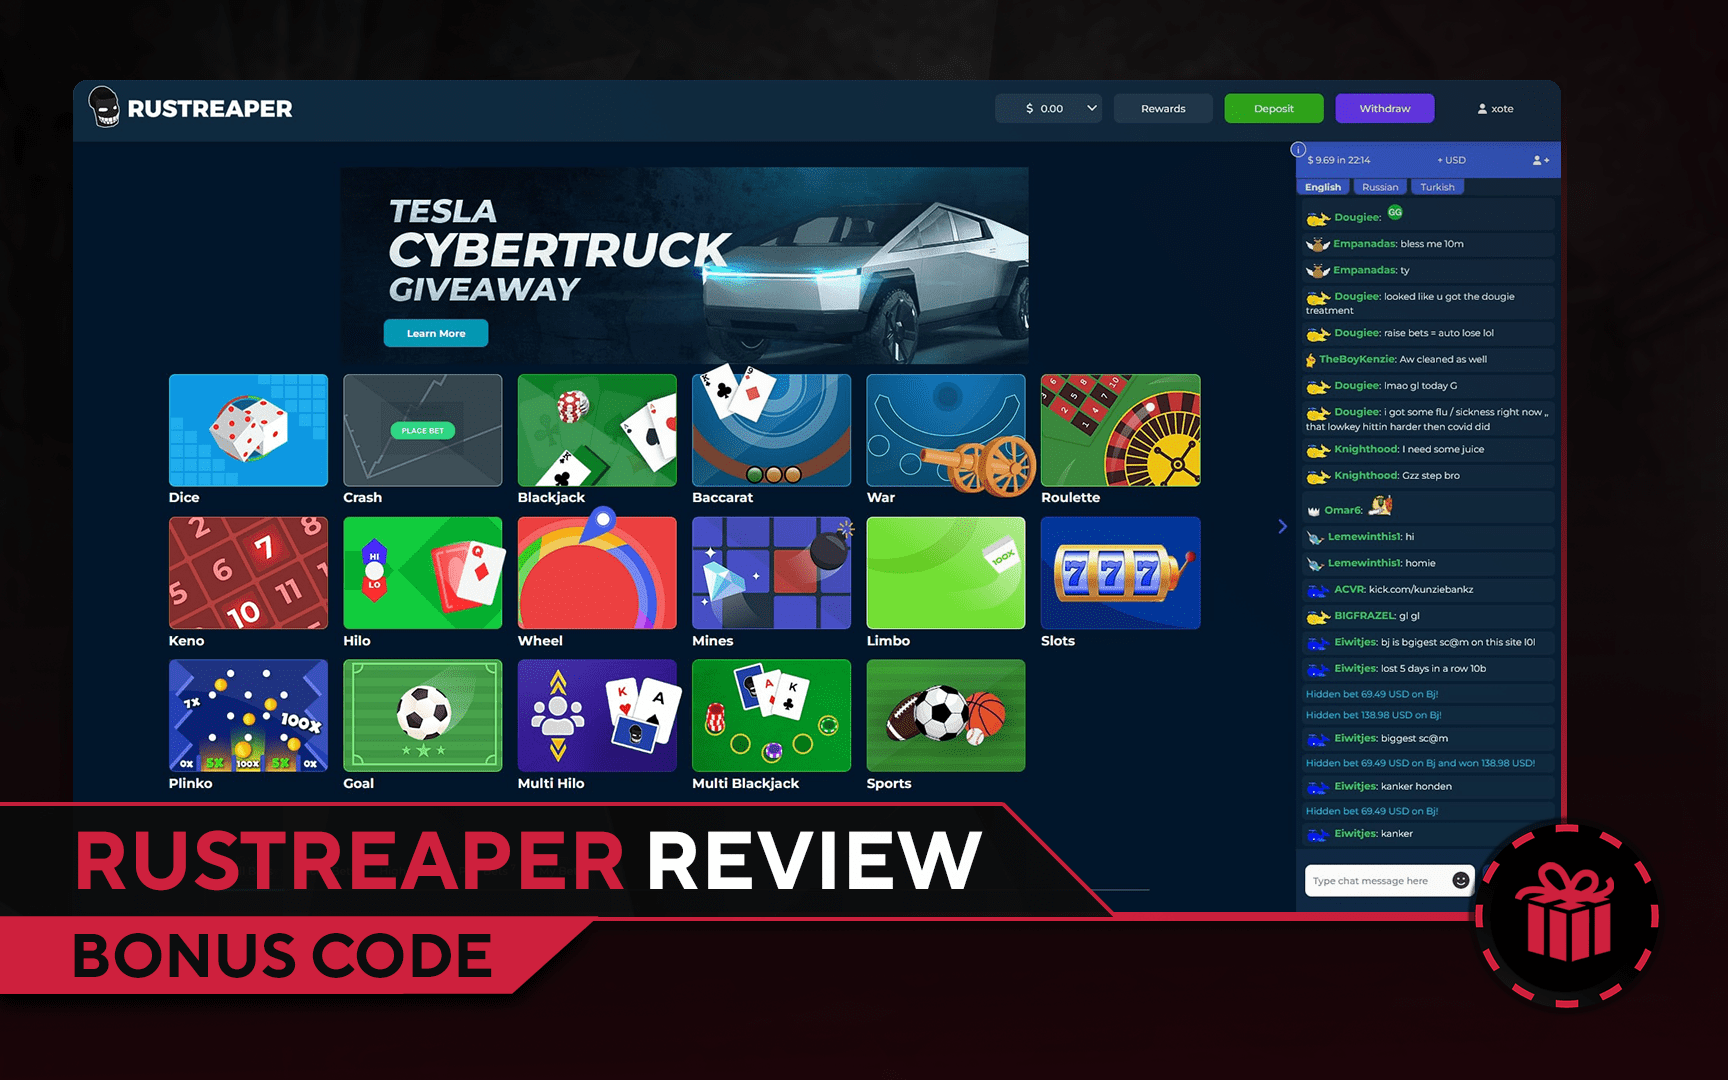
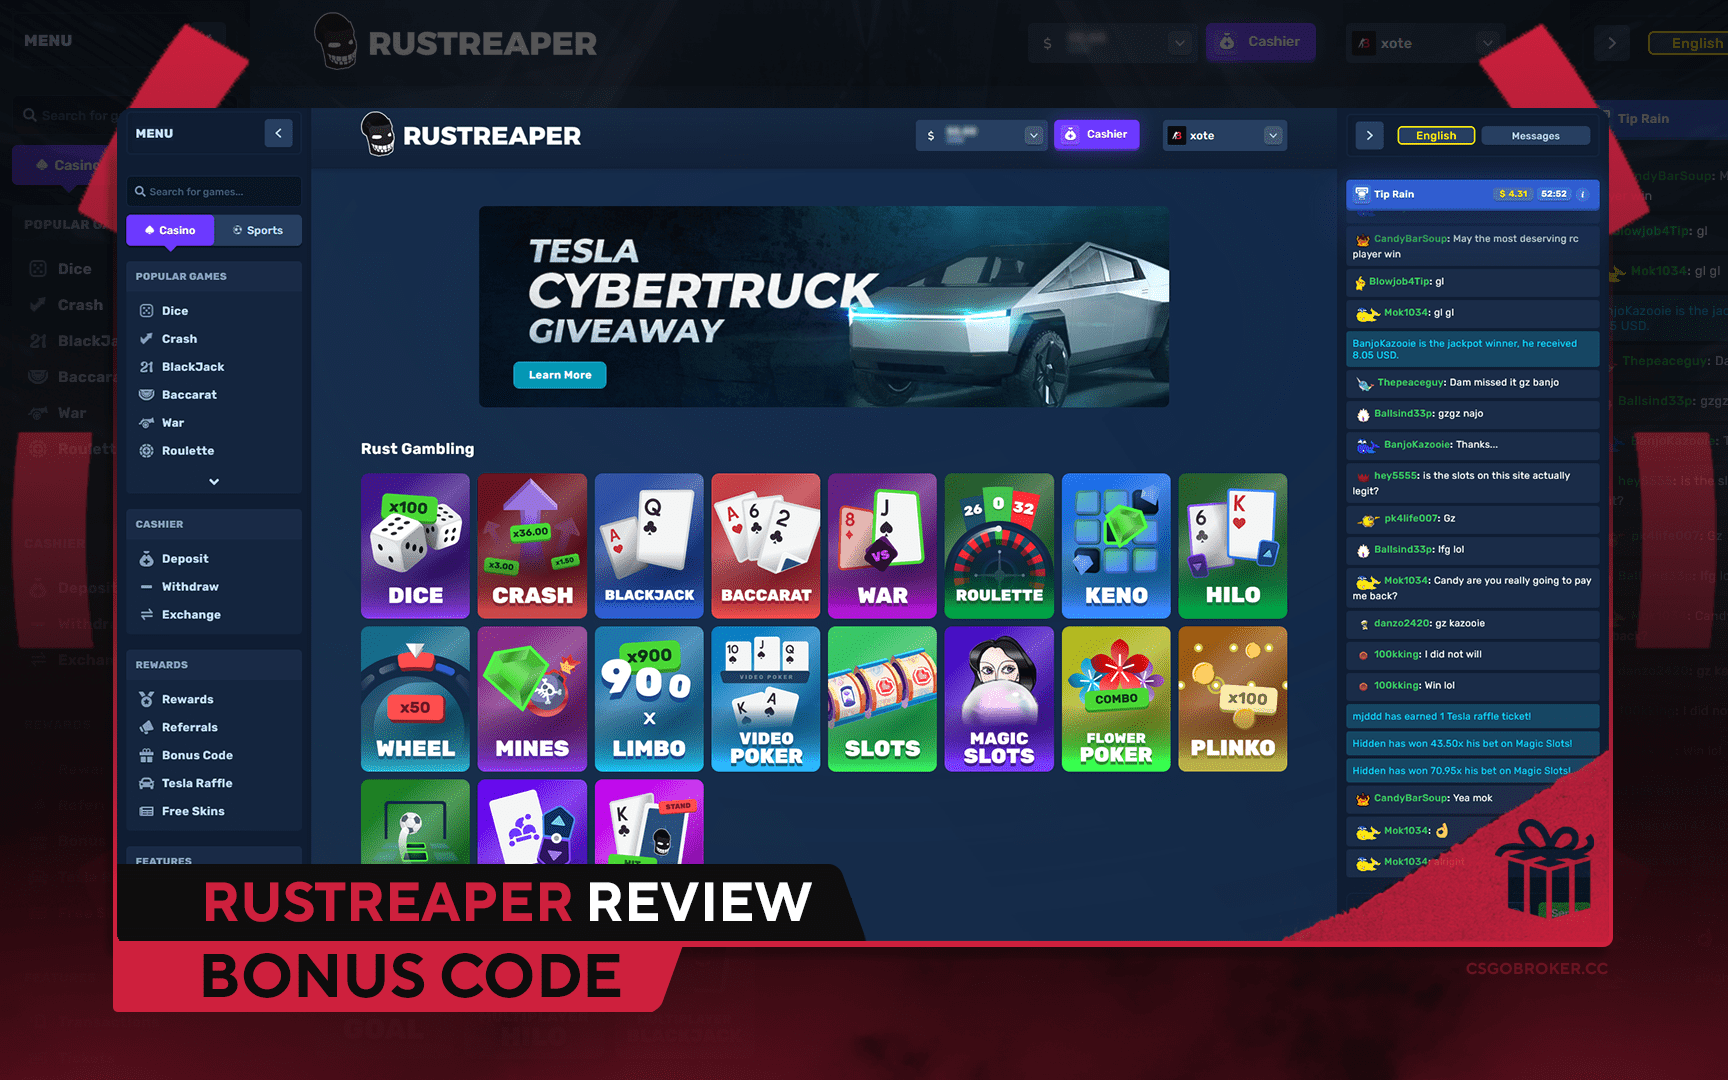
rustreaper upd

diff --git a/ru/reviews/rustreaper.html b/ru/reviews/rustreaper.html
@@ -16,13 +16,13 @@
     <link id="theme-style" rel="stylesheet" href="" disabled>
     <link rel="stylesheet" href="https://cdn.jsdelivr.net/npm/bootstrap-icons@1.11.3/font/bootstrap-icons.min.css">
     <link rel="canonical" href="https://csgobroker.cc/ru/reviews/rustreaper">
-    <meta name="description" content="Объективный обзор RustReaper, охватывающий все игровые режимы и уникальные функции. Давайте выясним, надёжен ли RustReaper.">
+    <meta name="description" content="Ознакомьтесь с нашим обзором RustReaper, где мы рассмотрим все плюсы и минусы этой крипто платформы, включая честность игр и доступность различных режимов.">
     <meta property="robots" content="follow, index, max-snippet:-1, max-video-preview:-1, max-image-preview:large">
     <meta property="og:url" content="https://csgobroker.cc/ru/reviews/rustreaper">
     <meta property="og:type" content="article">
     <meta property="og:title" content="RustReaper Обзор в 2024 - Промокод - Плюсы и Минусы">
     <meta property="og:locale" content="ru">
-    <meta property="og:description" content="Объективный обзор RustReaper, охватывающий все игровые режимы и уникальные функции. Давайте выясним, надёжен ли RustReaper.">
+    <meta property="og:description" content="Ознакомьтесь с нашим обзором RustReaper, где мы рассмотрим все плюсы и минусы этой крипто платформы, включая честность игр и доступность различных режимов.">
     <meta property="og:site_name" content="CSGOBROKER">
     <meta property="og:image" content="https://csgobroker.cc/img/banners/rustreaper-review.png">
     <meta property="og:image:secure_url" content="https://csgobroker.cc/img/banners/rustreaper-review.png">
@@ -37,7 +37,7 @@
     <meta name="twitter:card" content="summary_large_image">
     <meta name="twitter:image" content="https://csgobroker.cc/img/banners/rustreaper-review.png">
     <meta name="twitter:title" content="RustReaper Обзор в 2024 - Промокод - Плюсы и Минусы">
-    <meta name="twitter:description" content="Объективный обзор RustReaper, охватывающий все игровые режимы и уникальные функции. Давайте выясним, надёжен ли RustReaper.">
+    <meta name="twitter:description" content="Ознакомьтесь с нашим обзором RustReaper, где мы рассмотрим все плюсы и минусы этой крипто платформы, включая честность игр и доступность различных режимов.">
     <link rel="stylesheet" href="https://cdnjs.cloudflare.com/ajax/libs/slick-carousel/1.8.1/slick.min.css">
     <link rel="stylesheet" href="https://cdnjs.cloudflare.com/ajax/libs/slick-carousel/1.8.1/slick-theme.min.css">
     <link rel="alternate" hreflang="en" href="https://csgobroker.cc/reviews/rustreaper">
@@ -152,8 +152,8 @@
                 <ol>
                 <li>Перейдите на <a target="_blank" href="https://rustreaper.com?ref=broker">RustReaper</a> используя нашу ссылку</li>
                 <li>Залогиньтесь через Steam </li>
-                <li>Нажмите в Верхнем-Правом углу на <strong>Rewards</strong></li>
-                <li>Слева Введите код: <code id="site-code"></code><button class="copy site-promo-copy" aria-label="Copy Code"></button></li>
+                <li>Нажмите в Верхнем-Правом углу на ваш <strong>Никнейм</strong></li>
+                <li>Затем нажмите на <strong>Bonus code</strong> и Введите код: <code id="site-code"></code><button class="copy site-promo-copy" aria-label="Copy Code"></button></li>
                 <li>Готово !</li>
                 </ol>
             </div>
@@ -165,13 +165,13 @@
                     </div>
                 </div>
                 <div class="screens">
-                    <div class="slide bg1"><img draggable="false" loading="lazy" src="/img/screens/rustreaper_1.jpg" alt="RustReaper ScreenShot 1"></div>
-                    <div class="slide bg2"><img draggable="false" loading="lazy" src="/img/screens/rustreaper_2.jpg" alt="RustReaper ScreenShot 2"></div>
-                    <div class="slide bg3"><img draggable="false" loading="lazy" src="/img/screens/rustreaper_3.jpg" alt="RustReaper ScreenShot 3"></div>
-                    <div class="slide bg4"><img draggable="false" loading="lazy" src="/img/screens/rustreaper_4.jpg" alt="RustReaper ScreenShot 4"></div>
-                    <div class="slide bg5"><img draggable="false" loading="lazy" src="/img/screens/rustreaper_5.jpg" alt="RustReaper ScreenShot 5"></div>
-                    <div class="slide bg6"><img draggable="false" loading="lazy" src="/img/screens/rustreaper_6.jpg" alt="RustReaper ScreenShot 6"></div>
-                    <div class="slide bg7"><img draggable="false" loading="lazy" src="/img/screens/rustreaper_7.jpg" alt="RustReaper ScreenShot 7"></div>
+                    <div class="slide bg1"><img draggable="false" loading="lazy" src="/img/screens/rustreaper_1.png" alt="RustReaper Main Page ScreenShot"></div>
+                    <div class="slide bg2"><img draggable="false" loading="lazy" src="/img/screens/rustreaper_2.png" alt="RustReaper Sports Betting ScreenShot"></div>
+                    <div class="slide bg3"><img draggable="false" loading="lazy" src="/img/screens/rustreaper_3.png" alt="RustReaper Slots List ScreenShot"></div>
+                    <div class="slide bg4"><img draggable="false" loading="lazy" src="/img/screens/rustreaper_4.png" alt="RustReaper Roulette ScreenShot"></div>
+                    <div class="slide bg5"><img draggable="false" loading="lazy" src="/img/screens/rustreaper_5.png" alt="RustReaper Plinko ScreenShot"></div>
+                    <div class="slide bg6"><img draggable="false" loading="lazy" src="/img/screens/rustreaper_6.png" alt="RustReaper Crash ScreenShot"></div>
+                    <div class="slide bg7"><img draggable="false" loading="lazy" src="/img/screens/rustreaper_7.png" alt="RustReaper Mines ScreenShot"></div>
                 </div>
             </div>
             <div class="sitealternates">

diff --git a/tr/reviews/rustreaper.html b/tr/reviews/rustreaper.html
@@ -16,13 +16,13 @@
     <link id="theme-style" rel="stylesheet" href="" disabled>
     <link rel="stylesheet" href="https://cdn.jsdelivr.net/npm/bootstrap-icons@1.11.3/font/bootstrap-icons.min.css">
     <link rel="canonical" href="https://csgobroker.cc/tr/reviews/rustreaper">
-    <meta name="description" content="RustReaper'ın tüm oyun modlarını ve benzersiz özelliklerini kapsayan tarafsız bir inceleme. RustReaper'ın güvenilir olup olmadığını öğrenelim.">
+    <meta name="description" content="RustReaper incelememize göz atın, bu kripto platformunun tüm artılarını ve eksilerini, oyunların dürüstlüğü ve çeşitli modların kullanılabilirliği dahil olmak üzere ele alıyoruz.">
     <meta property="robots" content="follow, index, max-snippet:-1, max-video-preview:-1, max-image-preview:large">
     <meta property="og:url" content="https://csgobroker.cc/tr/reviews/rustreaper">
     <meta property="og:type" content="article">
     <meta property="og:title" content="RustReaper 2024 İncelemesi - Artılar ve Eksiler - Ücretsiz Bonus Kodu">
     <meta property="og:locale" content="tr">
-    <meta property="og:description" content="RustReaper'ın tüm oyun modlarını ve benzersiz özelliklerini kapsayan tarafsız bir inceleme. RustReaper'ın güvenilir olup olmadığını öğrenelim.">
+    <meta property="og:description" content="RustReaper incelememize göz atın, bu kripto platformunun tüm artılarını ve eksilerini, oyunların dürüstlüğü ve çeşitli modların kullanılabilirliği dahil olmak üzere ele alıyoruz.">
     <meta property="og:site_name" content="CSGOBROKER">
     <meta property="og:image" content="https://csgobroker.cc/img/banners/rustreaper-review.png">
     <meta property="og:image:secure_url" content="https://csgobroker.cc/img/banners/rustreaper-review.png">
@@ -37,7 +37,7 @@
     <meta name="twitter:card" content="summary_large_image">
     <meta name="twitter:image" content="https://csgobroker.cc/img/banners/rustreaper-review.png">
     <meta name="twitter:title" content="RustReaper 2024 İncelemesi - Artılar ve Eksiler - Ücretsiz Bonus Kodu">
-    <meta name="twitter:description" content="RustReaper'ın tüm oyun modlarını ve benzersiz özelliklerini kapsayan tarafsız bir inceleme. RustReaper'ın güvenilir olup olmadığını öğrenelim.">
+    <meta name="twitter:description" content="RustReaper incelememize göz atın, bu kripto platformunun tüm artılarını ve eksilerini, oyunların dürüstlüğü ve çeşitli modların kullanılabilirliği dahil olmak üzere ele alıyoruz.">
     <link rel="stylesheet" href="https://cdnjs.cloudflare.com/ajax/libs/slick-carousel/1.8.1/slick.min.css">
     <link rel="stylesheet" href="https://cdnjs.cloudflare.com/ajax/libs/slick-carousel/1.8.1/slick-theme.min.css">
     <link rel="alternate" hreflang="en" href="https://csgobroker.cc/reviews/rustreaper">
@@ -149,8 +149,8 @@
                 <ol>
                 <li>Sağlanan bağlantıyı kullanarak <a target="_blank" href="https://rustreaper.com?ref=broker">RustReaper</a>'e gidin</li>
                 <li>Steam ile Kayıt Ol</li>
-                <li>Sağ üst köşedeki <strong>Rewards</strong> üzerine tıklayın</li>
-                <li>Sol taraftaki Kodu Girin: <code id="site-code"></code><button class="copy site-promo-copy" aria-label="Copy Code"></button></li>
+                <li>Sağ üst köşedeki <strong>Kullanıcı Adınıza</strong> tıklayın</li>
+                <li>Ardından <strong>Bonus kodu</strong> tıklayın ve kodu girin: <code id="site-code"></code><button class="copy site-promo-copy" aria-label="Copy Code"></button></li>                
                 <li>Keyfini Çıkar!</li>
                 </ol>
             </div>
@@ -162,13 +162,13 @@
                     </div>
                 </div>
                 <div class="screens">
-                    <div class="slide bg1"><img draggable="false" loading="lazy" src="/img/screens/rustreaper_1.jpg" alt="RustReaper ScreenShot 1"></div>
-                    <div class="slide bg2"><img draggable="false" loading="lazy" src="/img/screens/rustreaper_2.jpg" alt="RustReaper ScreenShot 2"></div>
-                    <div class="slide bg3"><img draggable="false" loading="lazy" src="/img/screens/rustreaper_3.jpg" alt="RustReaper ScreenShot 3"></div>
-                    <div class="slide bg4"><img draggable="false" loading="lazy" src="/img/screens/rustreaper_4.jpg" alt="RustReaper ScreenShot 4"></div>
-                    <div class="slide bg5"><img draggable="false" loading="lazy" src="/img/screens/rustreaper_5.jpg" alt="RustReaper ScreenShot 5"></div>
-                    <div class="slide bg6"><img draggable="false" loading="lazy" src="/img/screens/rustreaper_6.jpg" alt="RustReaper ScreenShot 6"></div>
-                    <div class="slide bg7"><img draggable="false" loading="lazy" src="/img/screens/rustreaper_7.jpg" alt="RustReaper ScreenShot 7"></div>
+                    <div class="slide bg1"><img draggable="false" loading="lazy" src="/img/screens/rustreaper_1.png" alt="RustReaper Main Page ScreenShot"></div>
+                    <div class="slide bg2"><img draggable="false" loading="lazy" src="/img/screens/rustreaper_2.png" alt="RustReaper Sports Betting ScreenShot"></div>
+                    <div class="slide bg3"><img draggable="false" loading="lazy" src="/img/screens/rustreaper_3.png" alt="RustReaper Slots List ScreenShot"></div>
+                    <div class="slide bg4"><img draggable="false" loading="lazy" src="/img/screens/rustreaper_4.png" alt="RustReaper Roulette ScreenShot"></div>
+                    <div class="slide bg5"><img draggable="false" loading="lazy" src="/img/screens/rustreaper_5.png" alt="RustReaper Plinko ScreenShot"></div>
+                    <div class="slide bg6"><img draggable="false" loading="lazy" src="/img/screens/rustreaper_6.png" alt="RustReaper Crash ScreenShot"></div>
+                    <div class="slide bg7"><img draggable="false" loading="lazy" src="/img/screens/rustreaper_7.png" alt="RustReaper Mines ScreenShot"></div>
                 </div>
             </div>
             <div class="sitealternates">

diff --git a/reviews/rustreaper.html b/reviews/rustreaper.html
@@ -16,13 +16,13 @@
     <link id="theme-style" rel="stylesheet" href="" disabled>
     <link rel="stylesheet" href="https://cdn.jsdelivr.net/npm/bootstrap-icons@1.11.3/font/bootstrap-icons.min.css">
     <link rel="canonical" href="https://csgobroker.cc/reviews/rustreaper">
-    <meta name="description" content="An objective review of RustReaper, covering all game modes and unique features. Let's find out if RustReaper is reliable.">
+    <meta name="description" content="Check out our review of RustReaper, where we discuss all the pros and cons of this crypto platform, including the fairness of games and the availability of various modes.">
     <meta property="robots" content="follow, index, max-snippet:-1, max-video-preview:-1, max-image-preview:large">
     <meta property="og:url" content="https://csgobroker.cc/reviews/rustreaper">
     <meta property="og:type" content="article">
     <meta property="og:title" content="RustReaper Review in 2024 - Pros and Cons - Free Bonus Code">
     <meta property="og:locale" content="en">
-    <meta property="og:description" content="An objective review of RustReaper, covering all game modes and unique features. Let's find out if RustReaper is reliable.">
+    <meta property="og:description" content="Check out our review of RustReaper, where we discuss all the pros and cons of this crypto platform, including the fairness of games and the availability of various modes.">
     <meta property="og:site_name" content="CSGOBROKER">
     <meta property="og:image" content="https://csgobroker.cc/img/banners/rustreaper-review.png">
     <meta property="og:image:secure_url" content="https://csgobroker.cc/img/banners/rustreaper-review.png">
@@ -37,7 +37,7 @@
     <meta name="twitter:card" content="summary_large_image">
     <meta name="twitter:image" content="https://csgobroker.cc/img/banners/rustreaper-review.png">
     <meta name="twitter:title" content="RustReaper Review in 2024 - Pros and Cons - Free Bonus Code">
-    <meta name="twitter:description" content="An objective review of RustReaper, covering all game modes and unique features. Let's find out if RustReaper is reliable.">
+    <meta name="twitter:description" content="Check out our review of RustReaper, where we discuss all the pros and cons of this crypto platform, including the fairness of games and the availability of various modes.">
     <link rel="stylesheet" href="https://cdnjs.cloudflare.com/ajax/libs/slick-carousel/1.8.1/slick.min.css">
     <link rel="stylesheet" href="https://cdnjs.cloudflare.com/ajax/libs/slick-carousel/1.8.1/slick-theme.min.css">
     <link rel="alternate" hreflang="en" href="https://csgobroker.cc/reviews/rustreaper">
@@ -149,8 +149,8 @@
                 <ol>
                 <li>Go to <a target="_blank" href="https://rustreaper.com?ref=broker">RustReaper</a> using our link</li>
                 <li>Sign up via Steam</li>
-                <li>Click on <strong>Rewards</strong> in the upper-right corner</li>
-                <li>Enter Code on the left side:  <code id="site-code"></code><button class="copy site-promo-copy" aria-label="Copy Code"></button></li>
+                <li>Click on your <strong>Username</strong> in the Top-Right corner</li>
+                <li>Then click on <strong>Bonus code</strong> and enter the code: <code id="site-code"></code><button class="copy site-promo-copy" aria-label="Copy Code"></button></li>                
                 <li>Done!</li>
                 </ol>
             </div>
@@ -162,13 +162,13 @@
                     </div>
                 </div>
                 <div class="screens">
-                    <div class="slide bg1"><img draggable="false" loading="lazy" src="/img/screens/rustreaper_1.jpg" alt="RustReaper ScreenShot 1"></div>
-                    <div class="slide bg2"><img draggable="false" loading="lazy" src="/img/screens/rustreaper_2.jpg" alt="RustReaper ScreenShot 2"></div>
-                    <div class="slide bg3"><img draggable="false" loading="lazy" src="/img/screens/rustreaper_3.jpg" alt="RustReaper ScreenShot 3"></div>
-                    <div class="slide bg4"><img draggable="false" loading="lazy" src="/img/screens/rustreaper_4.jpg" alt="RustReaper ScreenShot 4"></div>
-                    <div class="slide bg5"><img draggable="false" loading="lazy" src="/img/screens/rustreaper_5.jpg" alt="RustReaper ScreenShot 5"></div>
-                    <div class="slide bg6"><img draggable="false" loading="lazy" src="/img/screens/rustreaper_6.jpg" alt="RustReaper ScreenShot 6"></div>
-                    <div class="slide bg7"><img draggable="false" loading="lazy" src="/img/screens/rustreaper_7.jpg" alt="RustReaper ScreenShot 7"></div>
+                    <div class="slide bg1"><img draggable="false" loading="lazy" src="/img/screens/rustreaper_1.png" alt="RustReaper Main Page ScreenShot"></div>
+                    <div class="slide bg2"><img draggable="false" loading="lazy" src="/img/screens/rustreaper_2.png" alt="RustReaper Sports Betting ScreenShot"></div>
+                    <div class="slide bg3"><img draggable="false" loading="lazy" src="/img/screens/rustreaper_3.png" alt="RustReaper Slots List ScreenShot"></div>
+                    <div class="slide bg4"><img draggable="false" loading="lazy" src="/img/screens/rustreaper_4.png" alt="RustReaper Roulette ScreenShot"></div>
+                    <div class="slide bg5"><img draggable="false" loading="lazy" src="/img/screens/rustreaper_5.png" alt="RustReaper Plinko ScreenShot"></div>
+                    <div class="slide bg6"><img draggable="false" loading="lazy" src="/img/screens/rustreaper_6.png" alt="RustReaper Crash ScreenShot"></div>
+                    <div class="slide bg7"><img draggable="false" loading="lazy" src="/img/screens/rustreaper_7.png" alt="RustReaper Mines ScreenShot"></div>
                 </div>
             </div>
             <div class="sitealternates">

diff --git a/style_main.css b/style_main.css
@@ -4361,6 +4361,14 @@ nav img:active,
     justify-content: flex-end;
     transition: .15s opacity ease-in-out;
 }
+
+.box.main .main-mode:after {
+    transform: translateX(-50%);
+    left: 50%;
+    bottom: 40px;
+    width: unset;
+}
+
 .main-mode {
     --casino-text: 'Casino';
     --classic-text: 'Classic Games';
@@ -4379,7 +4387,7 @@ nav img:active,
     --classic-text: 'Классические Игры';
     --cases-text: 'Открытие Кейсов';
     --betting-text: 'Ставки на Матчи';
-    --playing-text: 'Играй и Зарабатывай';
+    --playing-text: 'Заработок на Игре';
     --trading-text: 'Обменник';
     --marketplace-text: 'Торговая Площадка';
     --instant-sell-text: 'Быстрая Продажа';
@@ -7029,6 +7037,9 @@ label:active,
     }
     .main-infobox-content {
         width: 100%;
+    }
+    .box .logobg .main-mode {
+        right: 50px;
     }
     .boxreview .main-infobox {
         margin-top: 4px;

diff --git a/style_light.css b/style_light.css
@@ -198,11 +198,6 @@ h3  {
     overflow: unset;
 }
 
-.box .logobg .best {
-    right: -1px;
-    top: -1px;
-}
-
 .boxes-holder .content a.boxtitle,
 .boxes-holder .content p:first-child,
 .content a.boxtitle,
@@ -391,7 +386,8 @@ h3  {
 .sitepage.items .box-skins .skin,
 .sitepage.items .box-skins .skin:hover,
 .weapon-container,
-.weapon-selection-unite {
+.weapon-selection-unite,
+.main-infobox-content-block {
     background: #f2f2f2 !important;
     /* filter: drop-shadow(0 0 1px rgb(200 200 200)); */
     box-shadow: 0 1px 2px 0 rgba(50, 50, 50, .4);
@@ -674,4 +670,8 @@ ul .submenu li .nonredir,
 .category-box.active .category-box-logo img {
     opacity: 1;
     filter: none !important;
+}
+
+.main-mode-icon::before {
+    opacity: 1;
 }

diff --git a/godofscript.js b/godofscript.js
@@ -1794,7 +1794,7 @@ document.addEventListener("DOMContentLoaded", function() {
               });
           }
 
-          const mainBoxes = document.querySelectorAll('.box:not(.sitealternatesboxes .box)');
+          const mainBoxes = document.querySelectorAll('.box:not(.sitealternates .box)');
           mainBoxes.forEach(box => {
               if (data["Main Mode"]) {
                   modifyBox(box, data["Main Mode"]);
